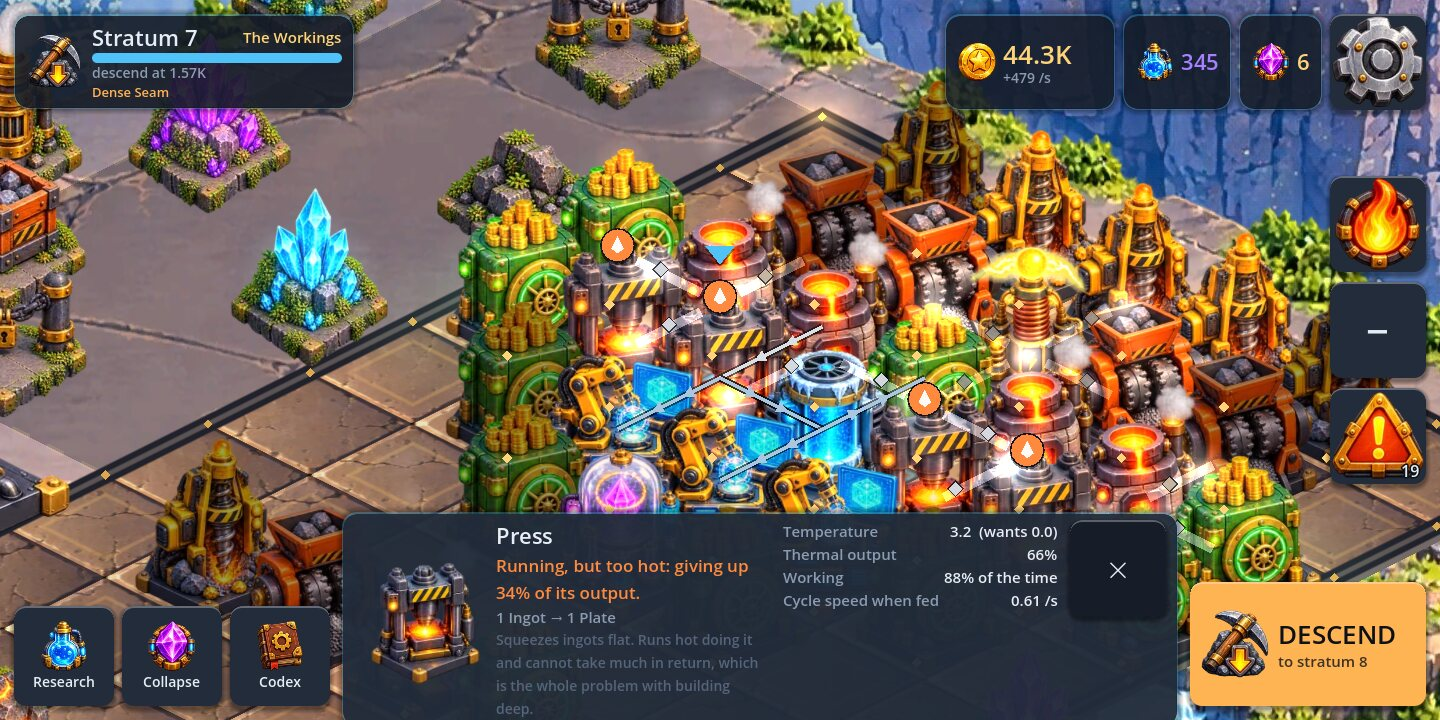
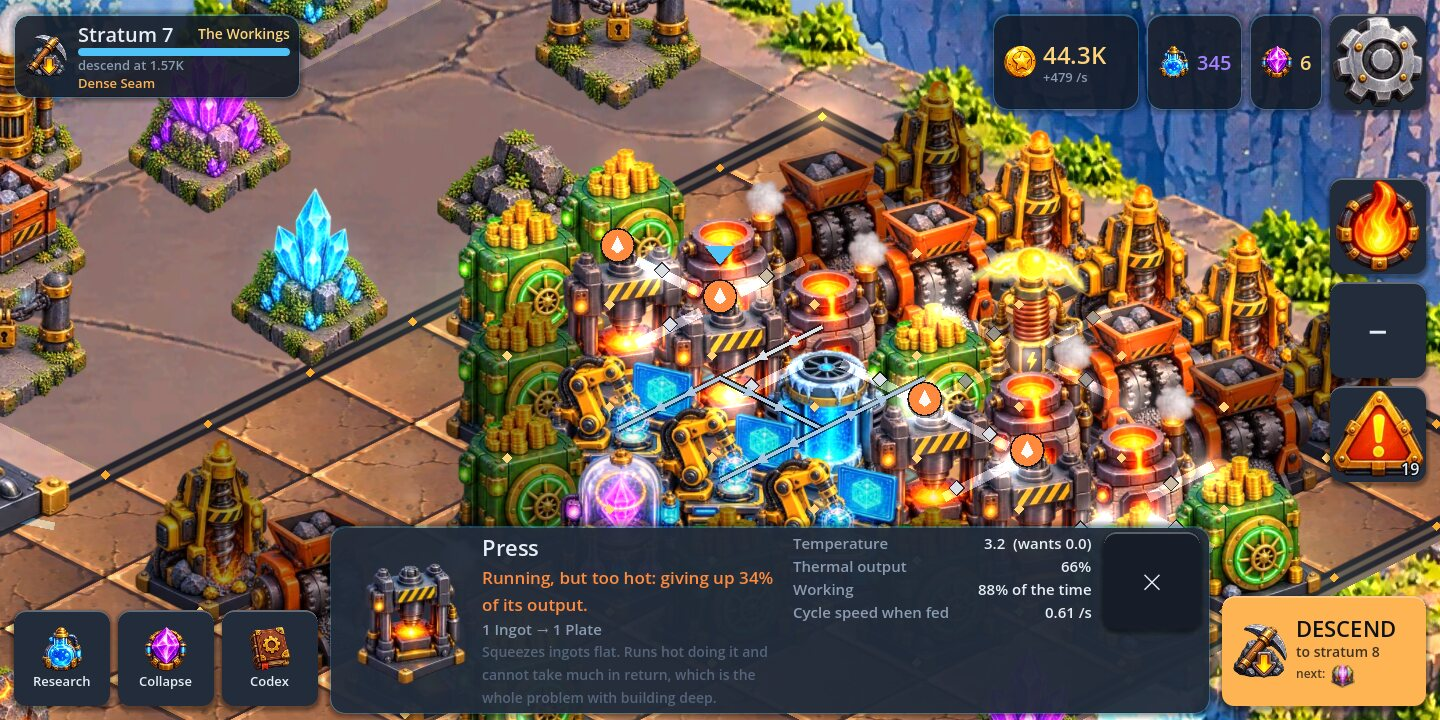
Document the new start in the README and ART.md, refresh the screenshots
The README now opens on a new game (the Core dark beside the small lit
yard) and a shaft seven strata down, and says how a shaft starts and grows.
ART.md records the Core's states and levels, the yard's drawing and the
world's grade. The machine close-up is re-captured with the machines at
work.

docs/ gets a .gdignore: the editor was importing the documentation's
images into the project for nothing.

diff --git a/docs/ART.md b/docs/ART.md
@@ -46,7 +46,9 @@ inconsistency the eye catches first.
 - **Pan** 1:1 with the finger (no easing while it is down), a **fling** that
   coasts after release, **pinch** and **wheel** zoom about the point under
   them, the zoom key gliding between the whole factory and a close view.
-- **Zoom** 0.42 to 1.6. The default frames the board and the Core in the
+- **Zoom** 0.42 to 1.6. While the yard (the ground a shaft may build on,
+  `BuildArea`) is smaller than the board, the default frames the Core and
+  the yard, up to zoom 1.15; after that it frames the board and the Core in the
   space the HUD leaves free.
 - **Bounds**: the camera never shows anything outside the painting, at any
   zoom, aspect ratio or fling (`test_the_camera_never_shows_the_void` checks
@@ -72,7 +74,7 @@ Back to front, each a layer of `IsoView`:
 | floor | the slab's two front faces, 70 floor slabs, the iron rim with brass rivets, the expansion plot, marks, contact shadows, pipes | one textured and two untextured batches |
 | floor light | each working machine's light pool, hot machines' orange pool, the rim lamps | additive |
 | things | machines, props and the Core, sorted by slab depth | one atlas: the machines batch |
-| light | machine cores, flow along seams, steam, embers, crystals, the Core's crystal, dust | additive |
+| light | machine cores, flow along seams, each machine's own work (dust, stamps, sparks, mist, coins, welding, pulses), steam, embers, crystals, the Core's crystal and level, dust | additive |
 | overlay | badges, flow beads, notches, previews, numbers, the selected machine's links | screen space, fixed size |
 
 **The slab** is 12 x 12 cells. The board sits at slab (4, 1); the Factory
@@ -83,6 +85,24 @@ it set the view's height (docs/AUDIT.md, "The default view").
 Slab (1..3, 1..7) is **the expansion plot**: dimmed, outlined in dashes,
 with a padlocked barrier at each end. It is visual only -- no rule reads
 it -- and it is where a future expansion mechanic would open ground.
+
+**The Core's states.** A shaft opens with its Core dark (cool grey, no
+crystal light, a target pulsing on its body). A tap brings it online with a
+flare.
+
+**The Core's levels.** Levels run from 1 to 5, one per stratum. A level-1
+Core is drawn at 84% of its picture and each level adds 4%. From level 2 it
+has a halo and conduits of light into the yard beside it, from level 3
+orbiting motes, and at level 5 a slow flare.
+
+**The yard.** Ground outside the yard is drawn at about 45% brightness.
+The yard's inner edge is a lit accent line. When the yard grows, the new
+tiles flare in a wave outwards from the old edge.
+
+**The world's grade.** The painting and the ground go through a small grade
+in their own shader: saturation x1.28-1.30 and a warm tint. That keeps them
+nearer the concept's warmth without touching the machines, the lights or
+the interface (docs/AUDIT.md, "The world's colour").
 
 **Props** (crystals, an ore vein, rubble, lamps, a crate, a steam vent) are
 hand-placed in `layout.json` -> `placement.props`.

diff --git a/README.md b/README.md
@@ -7,12 +7,22 @@ Not published. This repository is a working game, a test suite that checks the
 *balance* and not only the code, and everything needed to put it on Google Play
 except the things only a human with a bank account can do.
 
-![The main screen: a factory on a floating island over a canyon](docs/media/main-landscape.jpg)
+![A new game: the Factory Core, still dark, beside the small lit yard](docs/media/first-screen.jpg)
+
+![The same shaft seven strata down](docs/media/main-landscape.jpg)
 
 A landscape, three-quarter isometric world: a painted canyon with parallax, a
 rock island floating in it, a stone slab on the island, the 7x10 board on the
-slab and the Factory Core standing behind it. Drag to pan, pinch or wheel to
-zoom, tap to place, tap a machine to select it and drag it to move it. The
+slab and the Factory Core standing beside it.
+
+**A shaft starts small.** The Core is dark, and a tap brings it online and
+pays for the first Drill and Vault. A 4 x 4 yard beside it is all the
+ground there is to build on at first. Every stratum the shaft goes down
+widens the yard, and the Core grows with it, until the whole board is
+open.
+
+Drag to pan, pinch or wheel to zoom, tap to place, tap a machine to select
+it and drag it to move it. The
 simulation underneath is the one the tests below check; the screen only reads
 it. ([docs/ART.md](docs/ART.md) is the visual system,
 [docs/AUDIT.md](docs/AUDIT.md) section 0 what it was measured to cost.)
